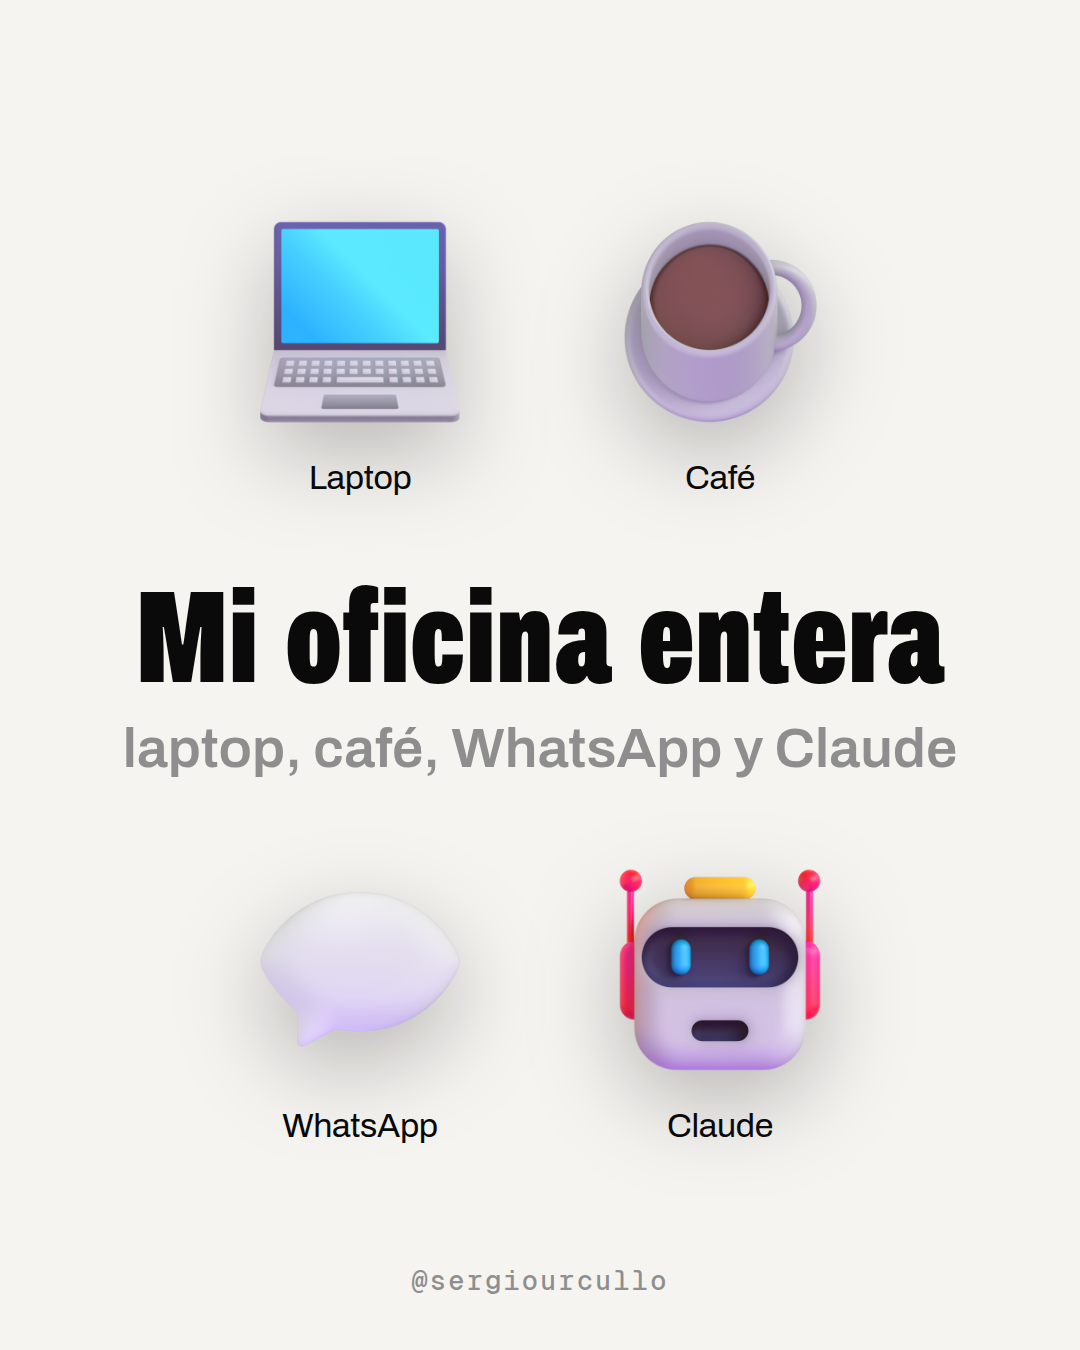
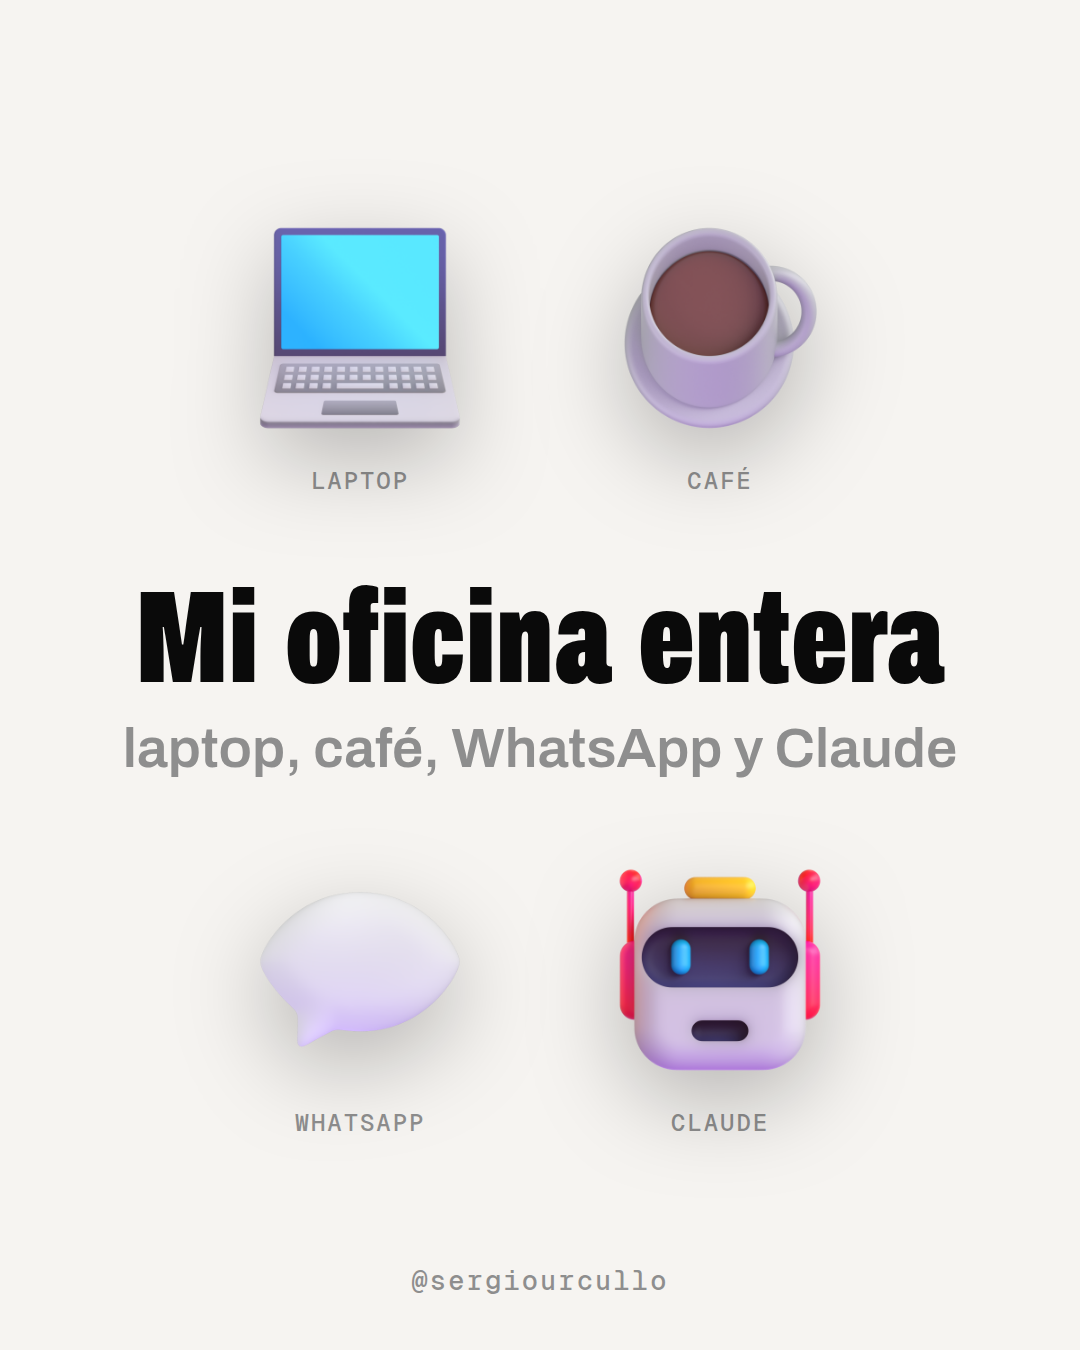
feat(marca-personal): statement 16-anos-4-herramientas + label icono ganador
Pieza publicable: nuevo statement-post con el claim de identidad pendiente en
la FICHA de statement-3d-minimal ("16 anios. 4 herramientas. 1 empresa.").

Practica A/B: label bajo icono, sans negra vs Geist Mono mayuscula gris. Gana
Geist Mono (no compite con el claim, unifica con el marco spec-sheet). Aplicado
a los dos generadores de statement-post. El mismo experimento destapo un bug
real de layout (icono/gap invadia el handle con claim de 2-3 lineas),
corregido antes de publicar cualquier pieza.

diff --git a/scripts/marca-personal/experimento-label-icono-statement.py b/scripts/marca-personal/experimento-label-icono-statement.py
@@ -1,0 +1,99 @@
+#!/usr/bin/env python3
+"""Practica 02-sep (tanda intensiva): A/B sobre la etiqueta bajo cada icono en
+statement-3d-minimal. Hoy es sans regular ~34px (ver FICHA.md); se compara contra
+una micro-etiqueta Geist Mono mayuscula, el mismo lenguaje que ya gano en el marco
+spec-sheet de las portadas de carrusel (ONIA_MARCA_PERSONAL_BASE_CONTENIDO SS6).
+Renderiza las 2 variantes sobre la MISMA pieza real que se produce esta vuelta
+("16 anios. 4 herramientas. 1 empresa.") para que el veredicto quede aplicado de
+una, no en una pieza descartable.
+Salida: carousels/out/experimento-label-icono-statement/{A-sans,B-mono}.png
+"""
+import subprocess, tempfile, shutil
+from pathlib import Path
+
+REPO = Path(__file__).resolve().parents[2]
+ICONOS = (REPO / "hermes-content/references/ui-patterns/statement-3d-minimal/iconos").as_uri()
+OUT = REPO / "hermes-content/carousels/out/experimento-label-icono-statement"
+
+def _chrome():
+    import os, glob
+    if os.environ.get("CHROME_BIN"):
+        return os.environ["CHROME_BIN"]
+    candidatos = [r"C:\Program Files\Google\Chrome\Application\chrome.exe"]
+    candidatos += sorted(glob.glob("/root/.cache/ms-playwright/chromium-*/chrome-linux64/chrome"), reverse=True)
+    for c in candidatos:
+        if Path(c).exists():
+            return c
+    raise SystemExit("No encontre Chrome/Chromium (setea CHROME_BIN)")
+
+CHROME = _chrome()
+
+ITEMS = [
+    ("laptop", "Laptop"),
+    ("robot", "Claude"),
+    ("speech_balloon", "WhatsApp"),
+    ("spiral_calendar", "Agenda"),
+]
+
+CLAIM = "16 años. 4 herramientas.<br>1 empresa."
+SUB = "laptop, Claude, WhatsApp y agenda automática"
+
+BASE_CSS = """
+@import url('https://fonts.googleapis.com/css2?family=Archivo:wdth,wght@62..125,100..900&family=Geist+Mono:wght@500&display=swap');
+*{margin:0;padding:0;box-sizing:border-box}
+html,body{width:1080px;height:1350px}
+body{background:#F6F4F1;font-family:'Archivo',sans-serif;overflow:hidden}
+.lienzo{width:1080px;height:1350px;display:flex;flex-direction:column;justify-content:center;
+  align-items:center;gap:52px;padding:96px 110px 140px;position:relative}
+.fila{display:flex;gap:110px;justify-content:center;align-items:flex-end}
+.item{display:flex;flex-direction:column;align-items:center;gap:20px}
+.item img{width:196px;height:196px;object-fit:contain;filter:drop-shadow(0 30px 45px rgba(0,0,0,.25))}
+.centro{text-align:center;display:flex;flex-direction:column;gap:14px}
+.claim{font-size:96px;font-weight:900;font-variation-settings:'wdth' 62;color:#0A0A0A;
+  word-spacing:.09em;line-height:1.08}
+.sub{font-size:46px;font-weight:600;color:#8E8E8E}
+.handle{position:absolute;bottom:52px;left:0;right:0;text-align:center;font-family:'Geist Mono',monospace;
+  font-size:27px;font-weight:500;letter-spacing:.08em;color:#8E8E8E}
+"""
+
+LABEL_A = ".label{font-size:34px;font-weight:400;color:#0A0A0A;letter-spacing:-0.01em}"
+LABEL_B = (".label{font-family:'Geist Mono',monospace;font-size:24px;font-weight:500;"
+           "letter-spacing:.08em;text-transform:uppercase;color:#8E8E8E}")
+
+def render(nombre, label_css):
+    fila_top = "".join(
+        f'<div class="item"><img src="{ICONOS}/{ic}.png"><div class="label">{lbl}</div></div>'
+        for ic, lbl in ITEMS[:2]
+    )
+    fila_bottom = "".join(
+        f'<div class="item"><img src="{ICONOS}/{ic}.png"><div class="label">{lbl}</div></div>'
+        for ic, lbl in ITEMS[2:]
+    )
+    html = f"""<!doctype html><html><head><meta charset='utf-8'><style>{BASE_CSS}{label_css}</style></head><body>
+<div class="lienzo">
+  <div class="fila">{fila_top}</div>
+  <div class="centro">
+    <div class="claim">{CLAIM}</div>
+    <div class="sub">{SUB}</div>
+  </div>
+  <div class="fila">{fila_bottom}</div>
+  <div class="handle">@sergiourcullo</div>
+</div></body></html>"""
+    tmp = Path(tempfile.mkdtemp(prefix="exp-label-"))
+    f = tmp / "v.html"
+    f.write_text(html, encoding="utf-8")
+    png = OUT / f"{nombre}.png"
+    subprocess.run([CHROME, "--headless=new", "--disable-gpu", "--hide-scrollbars", "--no-sandbox",
+        "--window-size=1080,1350", "--force-device-scale-factor=1",
+        "--virtual-time-budget=8000", f"--screenshot={png}", f.as_uri()],
+        check=True, capture_output=True, timeout=90)
+    print(f"OK {nombre}.png {png.stat().st_size} bytes")
+    shutil.rmtree(tmp, ignore_errors=True)
+
+def main():
+    OUT.mkdir(parents=True, exist_ok=True)
+    render("A-sans", LABEL_A)
+    render("B-mono", LABEL_B)
+
+if __name__ == "__main__":
+    main()

diff --git a/scripts/marca-personal/generar-statement-16anos.py b/scripts/marca-personal/generar-statement-16anos.py
@@ -1,0 +1,89 @@
+#!/usr/bin/env python3
+"""STATEMENT-POST unico, patron statement-3d-minimal (FICHA.md). Claim del banco
+de ideas: "16 anios. 4 herramientas. 1 empresa." -> [laptop, Claude, WhatsApp,
+agenda], la identidad que mas convierte segun BASE_CONTENIDO SS3 (5x en numeros
+propios). Layout con 4 iconos + claim de 2 lineas: iconos y gaps mas chicos que
+el primer statement (que llevaba claim de 1 sola linea) para no invadir el
+handle -- bug real encontrado y corregido en el experimento A/B de esta vuelta
+(experimento-label-icono-statement.py). Etiqueta bajo icono: Geist Mono
+mayuscula gris, mismo veredicto que se aplico a generar-statement-post.py.
+Salida: hermes-content/carousels/out/statement-16-anos-4-herramientas.png"""
+import subprocess, tempfile, shutil
+from pathlib import Path
+
+REPO = Path(__file__).resolve().parents[2]
+ICONOS = (REPO / "hermes-content/references/ui-patterns/statement-3d-minimal/iconos").as_uri()
+OUT = REPO / "hermes-content/carousels/out"
+
+def _chrome():
+    import os, glob
+    if os.environ.get("CHROME_BIN"):
+        return os.environ["CHROME_BIN"]
+    candidatos = [r"C:\Program Files\Google\Chrome\Application\chrome.exe"]
+    candidatos += sorted(glob.glob("/root/.cache/ms-playwright/chromium-*/chrome-linux64/chrome"), reverse=True)
+    for c in candidatos:
+        if Path(c).exists():
+            return c
+    raise SystemExit("No encontre Chrome/Chromium (setea CHROME_BIN)")
+
+CHROME = _chrome()
+
+ITEMS = [
+    ("laptop", "Laptop"),
+    ("robot", "Claude"),
+    ("speech_balloon", "WhatsApp"),
+    ("spiral_calendar", "Agenda"),
+]
+
+fila_top = "".join(
+    f'<div class="item"><img src="{ICONOS}/{ic}.png"><div class="label">{lbl}</div></div>'
+    for ic, lbl in ITEMS[:2]
+)
+fila_bottom = "".join(
+    f'<div class="item"><img src="{ICONOS}/{ic}.png"><div class="label">{lbl}</div></div>'
+    for ic, lbl in ITEMS[2:]
+)
+
+HTML = f"""<!doctype html><html><head><meta charset='utf-8'><style>
+@import url('https://fonts.googleapis.com/css2?family=Archivo:wdth,wght@62..125,100..900&family=Geist+Mono:wght@500&display=swap');
+*{{margin:0;padding:0;box-sizing:border-box}}
+html,body{{width:1080px;height:1350px}}
+body{{background:#F6F4F1;font-family:'Archivo',sans-serif;overflow:hidden}}
+.lienzo{{width:1080px;height:1350px;display:flex;flex-direction:column;justify-content:center;
+  align-items:center;gap:52px;padding:96px 110px 140px;position:relative}}
+.fila{{display:flex;gap:110px;justify-content:center;align-items:flex-end}}
+.item{{display:flex;flex-direction:column;align-items:center;gap:20px}}
+.item img{{width:196px;height:196px;object-fit:contain;filter:drop-shadow(0 30px 45px rgba(0,0,0,.25))}}
+.label{{font-family:'Geist Mono',monospace;font-size:24px;font-weight:500;letter-spacing:.08em;text-transform:uppercase;color:#8E8E8E}}
+.centro{{text-align:center;display:flex;flex-direction:column;gap:14px}}
+.claim{{font-size:96px;font-weight:900;font-variation-settings:'wdth' 62;color:#0A0A0A;
+  word-spacing:.09em;line-height:1.08}}
+.sub{{font-size:46px;font-weight:600;color:#8E8E8E}}
+.handle{{position:absolute;bottom:52px;left:0;right:0;text-align:center;font-family:'Geist Mono',monospace;
+  font-size:27px;font-weight:500;letter-spacing:.08em;color:#8E8E8E}}
+</style></head><body>
+<div class="lienzo">
+  <div class="fila">{fila_top}</div>
+  <div class="centro">
+    <div class="claim">16 años. 4 herramientas.<br>1 empresa.</div>
+    <div class="sub">laptop, Claude, WhatsApp y agenda automática</div>
+  </div>
+  <div class="fila">{fila_bottom}</div>
+  <div class="handle">@sergiourcullo</div>
+</div></body></html>"""
+
+def main():
+    OUT.mkdir(parents=True, exist_ok=True)
+    tmp = Path(tempfile.mkdtemp(prefix="statement-"))
+    f = tmp / "statement.html"
+    f.write_text(HTML, encoding="utf-8")
+    png = OUT / "statement-16-anos-4-herramientas.png"
+    subprocess.run([CHROME, "--headless=new", "--disable-gpu", "--hide-scrollbars", "--no-sandbox",
+        "--window-size=1080,1350", "--force-device-scale-factor=1",
+        "--virtual-time-budget=8000", f"--screenshot={png}", f.as_uri()],
+        check=True, capture_output=True, timeout=90)
+    print(f"OK statement-16-anos-4-herramientas.png {png.stat().st_size} bytes")
+    shutil.rmtree(tmp, ignore_errors=True)
+
+if __name__ == "__main__":
+    main()

diff --git a/scripts/marca-personal/generar-statement-post.py b/scripts/marca-personal/generar-statement-post.py
@@ -6,6 +6,9 @@ Tipografia de marca: Archivo variable (claim wght900 wdth62 word-spacing .09em)
 + Geist Mono para el handle. Sombra de icono mas rica: ganadora del experimento
 A/B/C 02-sep (experimento-textura-statement.py) -- el grano sutil se descarto,
 tripicaba el peso del PNG sin verse a esta escala; ver FICHA.md.
+Etiqueta bajo icono: Geist Mono mayuscula gris, ganadora del experimento A/B 02-sep
+(experimento-label-icono-statement.py) sobre sans regular negra -- no compite con
+el claim y unifica con el lenguaje del marco spec-sheet.
 Salida: hermes-content/carousels/out/statement-mi-oficina-entera.png"""
 import subprocess, tempfile, shutil
 from pathlib import Path
@@ -53,7 +56,7 @@ body{{background:#F6F4F1;font-family:'Archivo',sans-serif;overflow:hidden}}
 .fila{{display:flex;gap:130px;justify-content:center;align-items:flex-end}}
 .item{{display:flex;flex-direction:column;align-items:center;gap:22px}}
 .item img{{width:230px;height:230px;object-fit:contain;filter:drop-shadow(0 30px 45px rgba(0,0,0,.25))}}
-.label{{font-size:34px;font-weight:400;color:#0A0A0A;letter-spacing:-0.01em}}
+.label{{font-family:'Geist Mono',monospace;font-size:24px;font-weight:500;letter-spacing:.08em;text-transform:uppercase;color:#8E8E8E}}
 .centro{{text-align:center;display:flex;flex-direction:column;gap:14px}}
 .claim{{font-size:132px;font-weight:900;font-variation-settings:'wdth' 62;color:#0A0A0A;
   word-spacing:.09em;line-height:1}}

diff --git a/hermes-content/references/ui-patterns/statement-3d-minimal/FICHA.md b/hermes-content/references/ui-patterns/statement-3d-minimal/FICHA.md
@@ -19,7 +19,7 @@ el único comentario del post de referencia es exactamente esa pregunta).
 | Fondo | blanco cálido `#F6F4F1` plano, sin gradientes ni texturas |
 | Íconos | render 3D estilo clay/glass "app icon inflado", sombra RICA abajo (`drop-shadow(0 30px 45px rgba(0,0,0,.25))`, ganadora del experimento 02-sep), vista frontal, ~23% del ancho c/u |
 | Layout | grid 2 arriba + 2 abajo, texto centrado al medio; márgenes generosos (~12% laterales) |
-| Label de ícono | sans regular negra ~34px, centrada bajo el ícono |
+| Label de ícono | Geist Mono mayúscula gris `#8E8E8E` ~24px, letter-spacing .08em (ganadora del experimento 02-sep, ver abajo) |
 | Claim central | Archivo wght 900 wdth 62, word-spacing .09em, negra ~130px (tipografía de marca — reemplaza a Inter, ver ONIA_MARCA_SISTEMA) |
 | Subclaim | Archivo semibold gris `#8E8E8E` ~56px |
 | Fondo | `#F6F4F1` plano, SIN grano (probado y descartado, ver abajo) |
@@ -48,13 +48,28 @@ el único comentario del post de referencia es exactamente esa pregunta).
   **Gana la sombra de ícono más rica**, ya aplicada al generador. El grano
   (feTurbulence) se descarta: triplicó el peso del PNG (172KB→900KB) y no se
   distingue a esta escala — regla "verificar es MIRAR".
+- **Experimento label de ícono (02-sep, tanda intensiva)**,
+  `experimento-label-icono-statement.py`, salida en
+  `carousels/out/experimento-label-icono-statement/`: A (sans regular negra, la que
+  había) vs B (Geist Mono mayúscula gris). **Gana B**: no compite en peso visual con
+  el claim negro (A usaba el mismo negro pleno que el claim) y unifica el lenguaje
+  con el marco spec-sheet y el handle, que ya usan Geist Mono. Aplicado a
+  `generar-statement-post.py` (regenerado) y a `generar-statement-16anos.py`. De
+  paso el mismo experimento destapó un bug real de layout: con un claim de 2-3
+  líneas (a diferencia del claim de 1 línea de "Mi oficina entera"), los íconos y
+  gaps originales hacían que la fila inferior se solapara con el handle — corregido
+  achicando íconos (230px→196px) y gaps antes de publicar nada.
 
 ## Ideas listas para Sergio (misma fórmula)
 
 - ✅ "Mi oficina entera" → [laptop · café · WhatsApp · Claude] — producida 02-sep en
   `carousels/out/statement-mi-oficina-entera.png`
+- ✅ "16 años. 4 herramientas. 1 empresa." → [laptop · Claude · WhatsApp · agenda] —
+  producida 02-sep (tanda intensiva) en
+  `carousels/out/statement-16-anos-4-herramientas.png`, generador
+  `scripts/marca-personal/generar-statement-16anos.py`
 - "Bs 0 en sueldos" / "mi equipo son 4 cosas" → [Claude Code · n8n · Higgsfield · laptop]
   (n8n e Higgsfield sin ícono propio en el set — pendiente si se quiere esta variante)
-- "16 años. 4 herramientas. 1 empresa."
-- "Atender clientes 24/7 solo requiere 3 cosas" → [WhatsApp · Claude · n8n] (dueños de negocio)
+- "Atender clientes 24/7 solo requiere 3 cosas" → [WhatsApp · Claude · n8n] (dueños de negocio,
+  n8n sin ícono propio en el set — pendiente)
 - Portadas de los carruseles del mes usan este mismo esqueleto.

diff --git a/hermes-content/docs/cola/marca-personal.md b/hermes-content/docs/cola/marca-personal.md
@@ -22,6 +22,8 @@
 | P14 | **Práctica: veredicto skills del radar (unlazy / shuohao)** | ✅ 2026-09-02: evaluadas por lectura de fuente, SIN instalar (instalar tocaría `.claude/skills/` fuera de este carril). Ninguna se adopta acá; `unlazy` (disciplina de gates de cierre) queda propuesta para `docs-auditoria`/`onia-cola`. Veredicto completo en BASE_CONTENIDO §5 |
 | P15 | **Pieza de venta: "Un sistema, no una lista de apps"** | ✅ 2026-09-02 (tanda intensiva): 5 láminas `carousels/out/carrusel-sistema-venta/` — generador nuevo `scripts/marca-personal/generar-carrusel-sistema.py`. Promesas de `ONIA_CATALOGO_DE_VENTA.md` §4 (agenda/clientes/servicios/inventario, las 4 🟢), sin precio. CTA "Escribime AUTOMATIZAR" |
 | P16 | **Práctica: arte Higgsfield vs ícono Fluent en portada** | ✅ 2026-09-02: A/B en `carousels/out/experimento-arte-higgsfield-vs-icono/` (0,12 cr) — gana el arte Higgsfield (engranajes verdes: literaliza "sistema" mejor que un laptop y encaja con la paleta). Regla nueva: arte pago SOLO en portada/hero, interior sigue en íconos Fluent gratis (tope 1 cr/día). Aplicado a P15. BASE_CONTENIDO §6 "más imágenes" cerrado a la mitad (falta la mitad "foto real de Sergio", bloqueada por falta de identity assets en este carril) |
+| P17 | **Statement-post "16 años · 4 herramientas · 1 empresa"** | ✅ 2026-09-02 (tanda intensiva): `carousels/out/statement-16-anos-4-herramientas.png` — generador nuevo `scripts/marca-personal/generar-statement-16anos.py`, claim del banco pendiente de la FICHA de `statement-3d-minimal`, íconos [laptop·Claude·WhatsApp·agenda] |
+| P18 | **Práctica: label de ícono en statement-3d-minimal (A/B)** | ✅ 2026-09-02 (tanda intensiva): A (sans negra) vs B (Geist Mono mayúscula gris) en `carousels/out/experimento-label-icono-statement/` — gana B, no compite con el claim y unifica con el marco spec-sheet. Aplicado a `generar-statement-post.py` (regenerado) y a P17. De paso corrigió un bug real: con claim de 2-3 líneas la fila inferior de íconos se solapaba con el handle — arreglado antes de publicar. Veredicto en BASE_CONTENIDO §6 |
 
 > **LOOP VPS: VIVO Y VERIFICADO** (2026-09-01). Cron diario 17:56 La Paz. Primera vuelta:
 > 127 s, exit 0, escribió `drops/2026-09-02.md` (calidad verificada) y pusheó a

diff --git a/hermes-content/docs/ONIA_MARCA_PERSONAL_BASE_CONTENIDO.md b/hermes-content/docs/ONIA_MARCA_PERSONAL_BASE_CONTENIDO.md
@@ -135,3 +135,14 @@ produce solo". Los ganchos del banco (RADAR §2) se cruzan con estos temas.
 - [x] **Historias-quiz** (02-sep): formato ingenierobinario adaptado a marca —
       `generar-historia-quiz.py`, 3 historias listas con zona para el sticker de
       encuesta; opciones y respuestas en SEMANA1. La interacción es el poll de 1 tap.
+- [x] **Label de ícono en statement-3d-minimal** (02-sep, tanda intensiva) —
+      A/B renderizado y comparado en `carousels/out/experimento-label-icono-statement/`
+      sobre la pieza real "16 años. 4 herramientas. 1 empresa.": **A** sans regular
+      negra (la que había) vs **B** Geist Mono mayúscula gris. **Gana B** — no compite
+      en peso visual con el claim (A usaba el mismo negro pleno) y unifica el
+      lenguaje con el marco spec-sheet y el handle. Aplicado a
+      `generar-statement-post.py` (regenerado, mismo PNG) y al generador nuevo
+      `generar-statement-16anos.py`. FICHA.md actualizada. **Hallazgo extra:** el
+      mismo experimento destapó que con un claim de 2-3 líneas los íconos/gaps que
+      traía el generador original invadían el handle — bug real de layout, corregido
+      antes de publicar (íconos 230px→196px, gaps más chicos).
